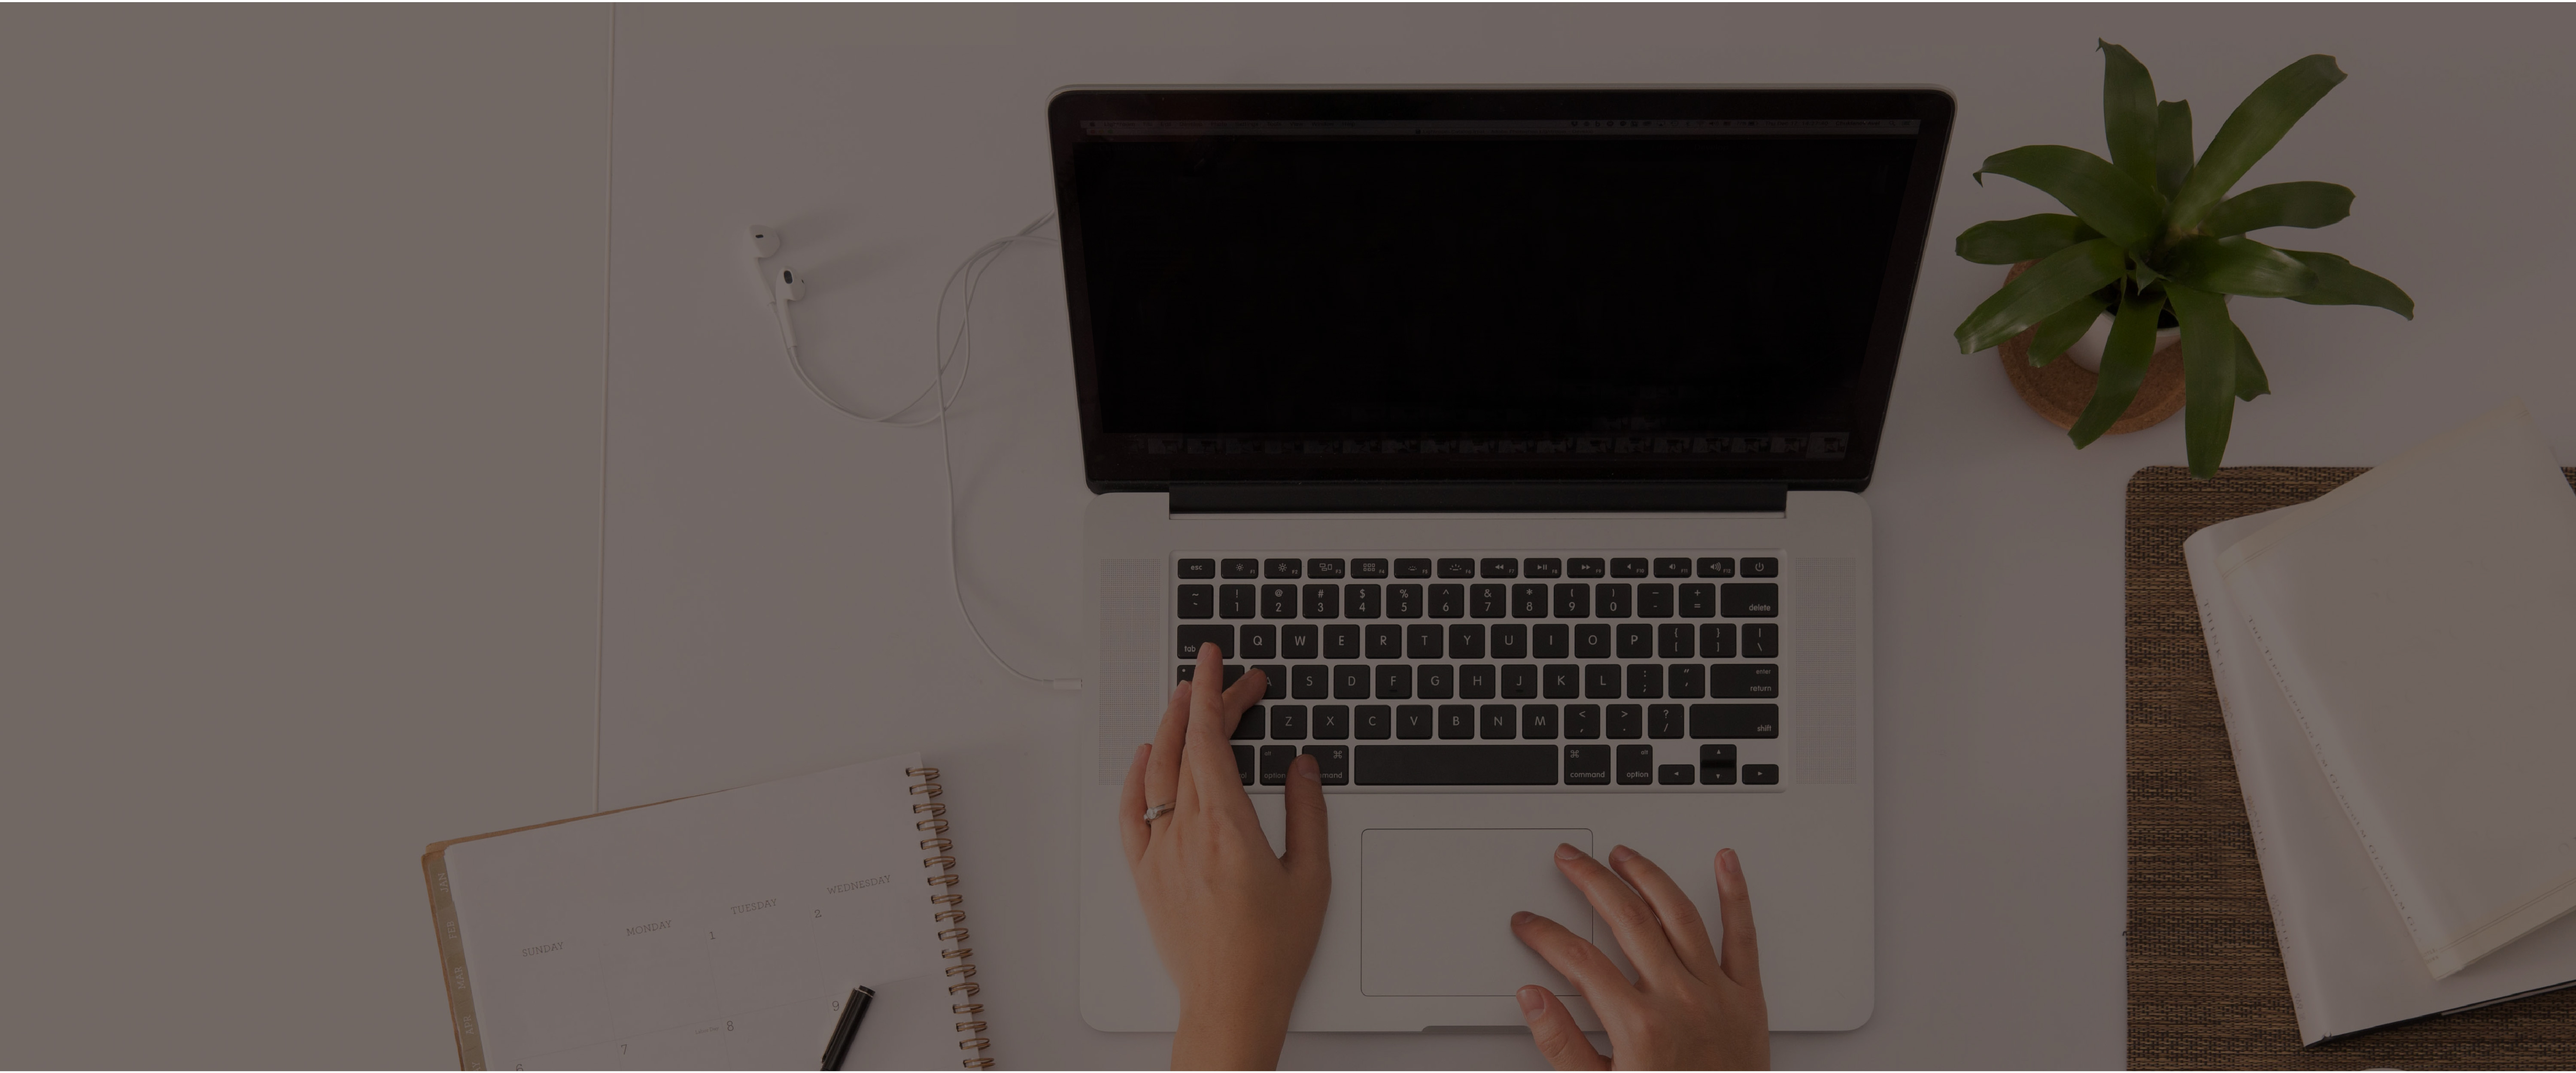
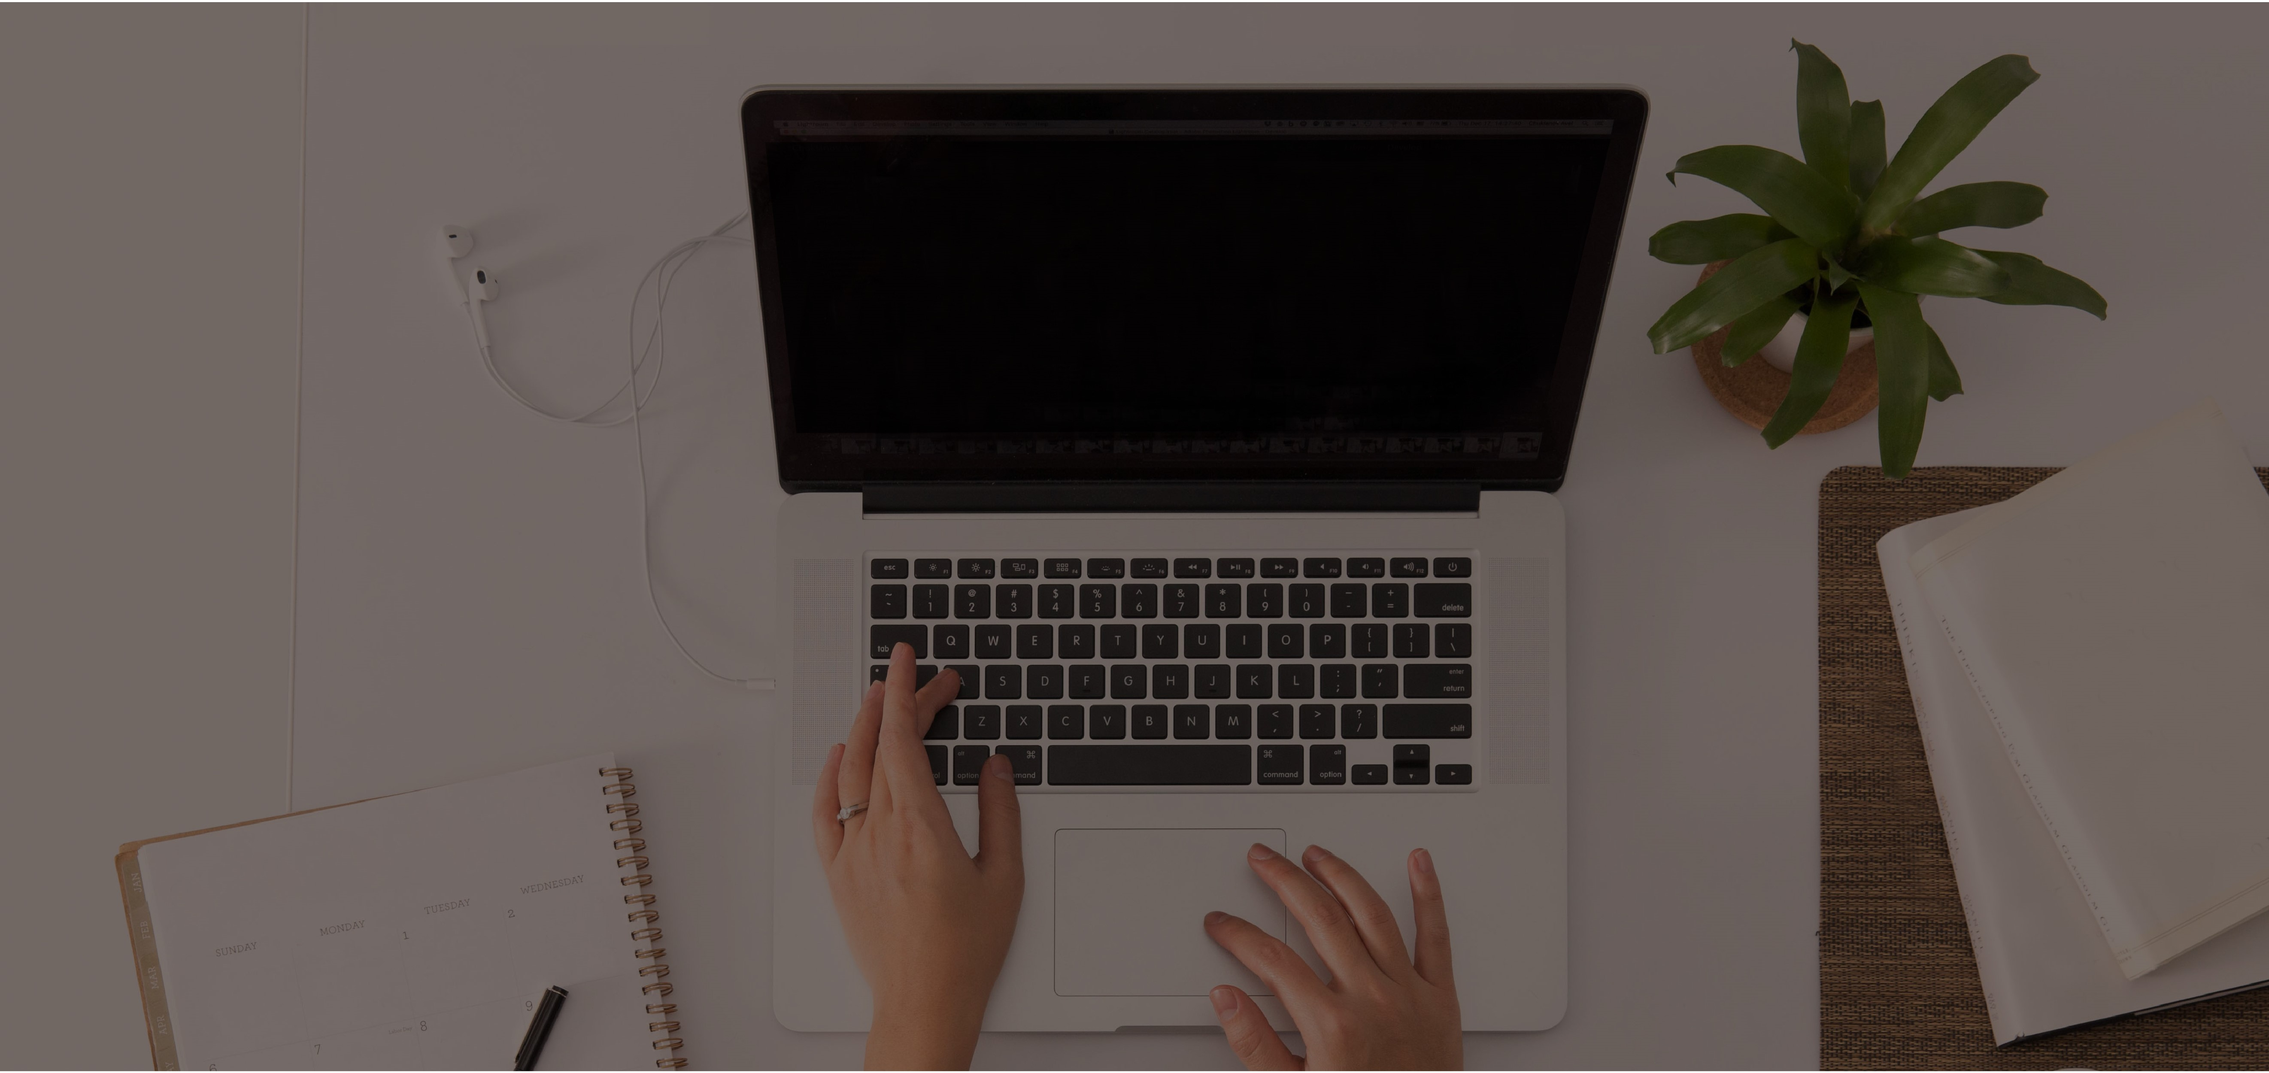
Burger menu

diff --git a/src/App.css b/src/App.css
@@ -46,7 +46,6 @@ header {
   z-index: 100;
   box-shadow: #32325d40 0px 6px 12px -2px, #0000004d 0px 3px 7px -3px;
 }
-
 nav ul {
   display: flex;
   list-style: none;
@@ -123,11 +122,46 @@ nav ul a {
   background-color: #564c45;
 }
 
+/* BURGER MENU */
+.bm-burger-button {
+  position: fixed;
+  width: 2.5rem;
+  height: 2rem;
+  right: 2rem;
+  top: 2rem;
+}
+.bm-burger-bars {
+  background: #000000;
+}
+.bm-cross-button {
+  height: 2rem;
+  width: 2rem;
+  left: 2rem;
+  padding-top: 2rem;
+}
+.bm-cross {
+  background: #000000;
+}
+.bm-menu-wrap {
+  position: fixed;
+  height: 100%;
+  top: 0%;
+}
+.bm-menu {
+  background: #f5f5f5;
+  font-size: 1.15em;
+}
+.bm-item-list {
+  padding: 0.8em;
+  margin-top: 2rem;
+}
+
 /*** Home ***/
 
 .banner-home {
   background-image: url(assets/img/Banners/home.jpg);
   background-size: cover;
+  background-position: right;
   height: calc(100vh - 90px);
   display: flex;
   flex-direction: column;
@@ -137,7 +171,6 @@ nav ul a {
 
 .logo-home {
   width: 35%;
-  margin-left: 2rem;
   filter: drop-shadow(0px 4px 4px rgba(0, 0, 0, 0.25))
     drop-shadow(0px 4px 4px rgba(0, 0, 0, 0.25));
 }
@@ -145,7 +178,7 @@ nav ul a {
 .btn-home {
   width: fit-content;
   margin-bottom: 3rem;
-  margin-left: 8vw;
+  margin-left: 6vw;
   border: 0.5px solid;
   border-radius: 20px;
   border-color: #555;
@@ -432,6 +465,7 @@ footer > div {
 
 .banners {
   background-size: cover;
+  background-position: center;
   height: calc(100vh - 90px);
   display: flex;
   flex-direction: column;
@@ -515,7 +549,7 @@ footer > div {
     width: 60%;
   }
   .logo-home {
-    width: 60%;
+    width: 50%;
   }
   .btn-home {
     margin-left: 10vw;
@@ -562,13 +596,14 @@ footer > div {
 @media screen and (max-width: 767px) {
 
   /* Home */
-  .logo-header {
-    width: 90%;
+  .hidden {
+    display: none;
   }
-  nav ul {
-    flex-direction: column;
-    gap: .2rem;
-    margin-bottom: .3rem;
+  .burger-list{
+    padding-top: 1rem;
+  }
+  .logo-header {
+    width: 70%;
   }
   .banner-home {
     align-items: center;
@@ -578,7 +613,7 @@ footer > div {
     justify-content: center;
   }
   .logo-home {
-    width: 80%;
+    width: 70%;
   }
   .btn-home {
     margin-left: 0vw;

diff --git a/src/components/Header/BurgerMenu.jsx b/src/components/Header/BurgerMenu.jsx
@@ -1,0 +1,65 @@
+import React from 'react';
+import {slide as Menu} from 'react-burger-menu';
+import { Link, NavLink } from "react-router-dom";
+import {useEffect, useState} from 'react';
+import { Link as Scroll } from "react-scroll";
+
+
+const Burger = () => {
+    const [windowSize, setWindowSize] = useState(getWindowSize());
+    useEffect(() => {
+        function handleWindowResize() {
+          setWindowSize(getWindowSize());
+        }
+        window.addEventListener('resize', handleWindowResize);
+
+        return () => {
+        window.removeEventListener('resize', handleWindowResize);
+        };
+    }, []);
+
+    function getWindowSize() {
+        const {innerWidth, innerHeight} = window;
+        return {innerWidth, innerHeight};
+    }
+
+    
+    if ( windowSize.innerWidth < 768) {
+        return (
+            <Menu right>
+                <ul>
+                    <li className='burger-list'>
+                        <Link to="/" className="btn-nav">
+                            Home
+                        </Link>
+                    </li>
+                    <li className='burger-list'>
+                        <NavLink
+                        to="/servicios"
+                        activeClassName="active"
+                        className="btn-nav"
+                        >
+                            Servicios
+                        </NavLink>
+                    </li>
+                    <li className='burger-list'>
+                        <NavLink
+                        to="/portfolio"
+                        activeClassName="active"
+                        className="btn-nav"
+                        >
+                            Portfolio
+                        </NavLink>
+                    </li>
+                    <li className='burger-list'>
+                        <Scroll to="contacto" className="btn-contact">
+                            Contacto
+                        </Scroll>
+                    </li>
+                </ul>
+            </Menu>
+        );
+    }
+};
+
+export default Burger;

diff --git a/src/components/Header/BurgerMenuSections.jsx b/src/components/Header/BurgerMenuSections.jsx
@@ -1,0 +1,64 @@
+import React from 'react';
+import {slide as Menu} from 'react-burger-menu';
+import { Link, NavLink } from "react-router-dom";
+import {useEffect, useState} from 'react';
+
+
+const Burger = () => {
+    const [windowSize, setWindowSize] = useState(getWindowSize());
+    useEffect(() => {
+        function handleWindowResize() {
+          setWindowSize(getWindowSize());
+        }
+        window.addEventListener('resize', handleWindowResize);
+
+        return () => {
+        window.removeEventListener('resize', handleWindowResize);
+        };
+    }, []);
+
+    function getWindowSize() {
+        const {innerWidth, innerHeight} = window;
+        return {innerWidth, innerHeight};
+    }
+
+    
+    if ( windowSize.innerWidth < 768) {
+        return (
+            <Menu right>
+                <ul>
+                    <li className='burger-list'>
+                        <Link to="/" className="btn-nav">
+                            Home
+                        </Link>
+                    </li>
+                    <li className='burger-list'>
+                        <NavLink
+                        to="/servicios"
+                        activeClassName="active"
+                        className="btn-nav"
+                        >
+                            Servicios
+                        </NavLink>
+                    </li>
+                    <li className='burger-list'>
+                        <NavLink
+                        to="/portfolio"
+                        activeClassName="active"
+                        className="btn-nav"
+                        >
+                            Portfolio
+                        </NavLink>
+                    </li>
+                    <li className='burger-list'>
+                        <Link to="/" className="btn-contact">
+                            Contacto
+                        </Link>
+                    </li>
+                </ul>
+            </Menu>
+        );
+    }
+};
+
+export default Burger;

diff --git a/src/components/Header/HeaderHome.jsx b/src/components/Header/HeaderHome.jsx
@@ -2,6 +2,7 @@ import React, { useState, useEffect } from "react";
 import { Link } from "react-router-dom";
 import Logo from "../../assets/img/Logos/logotipo.png";
 import { animateScroll as scroll, Link as Scroll } from "react-scroll";
+import Burger from "./BurgerMenu";
 
 const Header = () => {
   const [showLogo, setShowLogo] = useState(false);
@@ -39,9 +40,9 @@ const Header = () => {
           ""
         )}
       </div>
-      <nav>
-        <ul>
-          
+      <Burger/>
+      <nav className="hidden">
+        <ul>            
           <li>
             <Link to="/servicios" className="btn-nav">
               Servicios

diff --git a/src/components/Header/HeaderSections.jsx b/src/components/Header/HeaderSections.jsx
@@ -2,6 +2,7 @@ import React from "react";
 import Logo from "../../assets/img/Logos/logotipo.png";
 import { Link, NavLink } from "react-router-dom";
 import { animateScroll as scroll } from "react-scroll";
+import Burger from "./BurgerMenuSections";
 
 const Header = () => {
   const scrollToTop = () => {
@@ -18,7 +19,8 @@ const Header = () => {
           onClick={scrollToTop}
         />
       </div>
-      <nav>
+      <Burger/>
+      <nav className="hidden">
         <ul>
           <li>
             <Link to="/" className="btn-nav">
